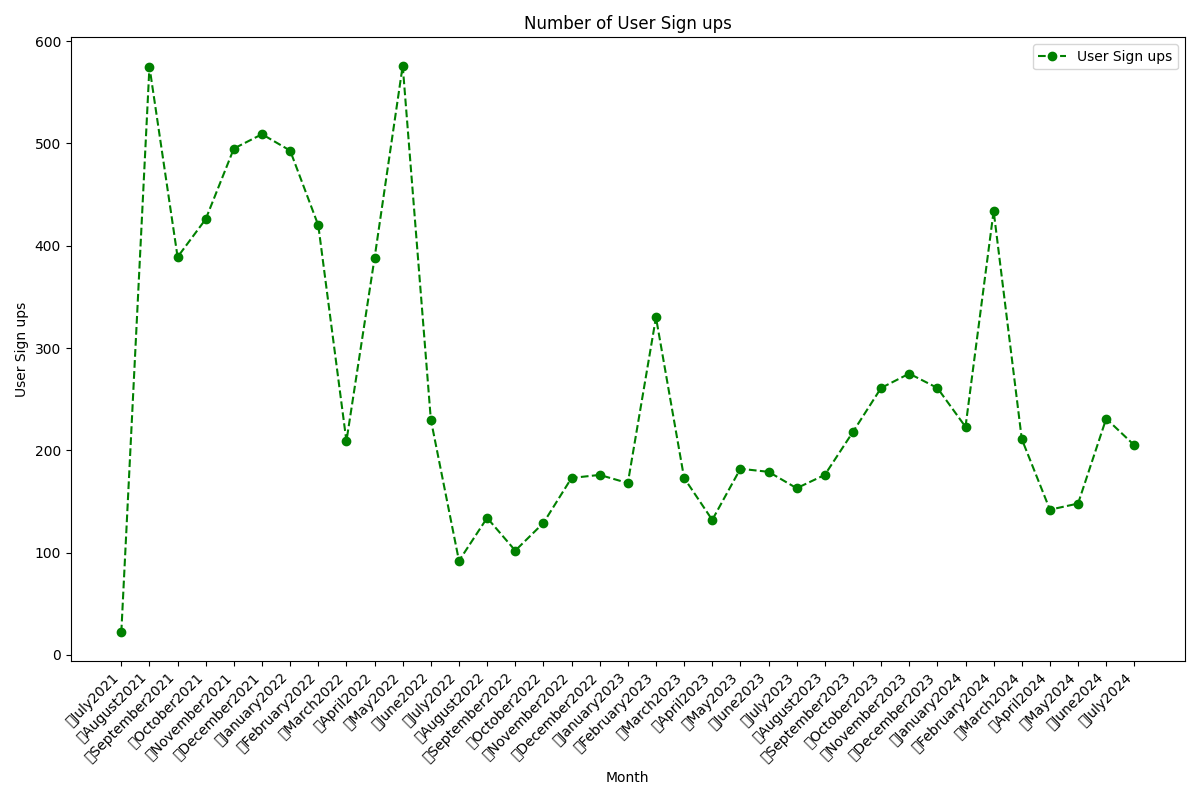
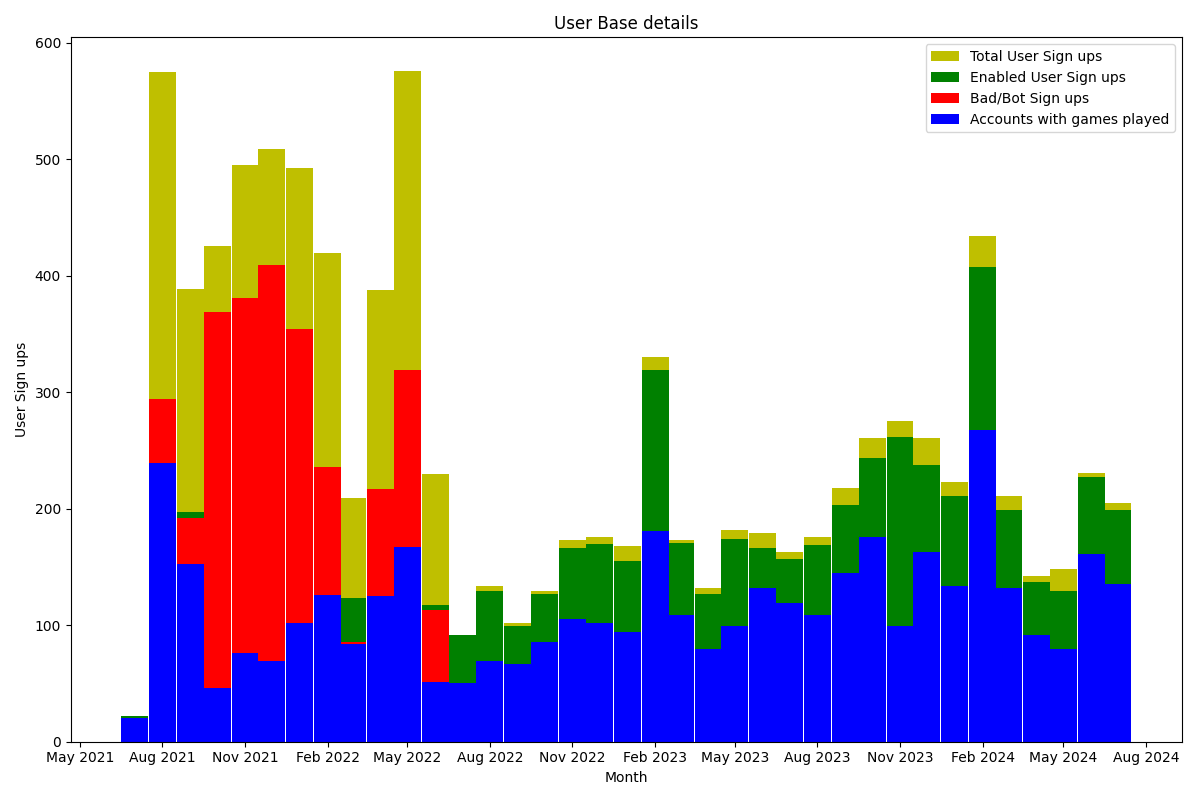
Process all sets of data as a bar chart

diff --git a/signupcvs.py b/signupcvs.py
@@ -1,31 +1,76 @@
 import csv
 import matplotlib.pyplot as plt
+import matplotlib.dates as mdates
+from datetime import date
+import numpy as np
 
 x= []
-y =[]
+y1 =[]
+y2 = []
+y3 = []
+y4 = []
 
 with open('users.csv','r') as csvfile: 
     plots = csv.reader(csvfile, delimiter = ',') 
 
     header = next(plots)
     data = list(plots)
+    data.reverse()
+    count = 0
+    month_num = 0
 
     for row in data:
         month = row[1]
-        year = row[0]
-        date = month + str(year)
+        year = int(row[0])
 
-        x.append(date)
-        y.append(int(row[2]))
+        month = month.lstrip()
+
+        if month == "January":
+            month_num = 1
+        elif month == "February":
+            month_num = 2
+        elif month == "March":
+            month_num = 3
+        elif month == "April":
+            month_num = 4
+        elif month == "May":
+            month_num = 5
+        elif month == "June":
+            month_num = 6
+        elif month == "July":
+            month_num = 7
+        elif month == "August":
+            month_num = 8
+        elif month == "September":
+            month_num = 9
+        elif month == "October":
+            month_num = 10
+        elif month == "November":
+            month_num = 11
+        elif month == "December":
+            month_num = 12
+
+        date_time_value = mdates.date2num(date(year,month_num,1))
+        date_time_num = mdates.date2num(date_time_value)
+        formatter = mdates.ConciseDateFormatter(date_time_value)
+
+        x.append(date_time_value)
+        y1.append(int(row[2]))
+        y2.append(int(row[4]))
+        y3.append(int(row[3]))
+        y4.append(int(row[5]))
          
 plt.figure(figsize=(12, 8))   
-plt.plot(x, y, color = 'g',linestyle = 'dashed', 
-         marker = 'o', label = "User Sign ups") 
+plt.bar(x, y1, color = 'y', width = 30, label = "Total User Sign ups")
+plt.bar(x, y2, color = 'g', width = 30, label = "Enabled User Sign ups")
+plt.bar(x, y3, color = 'r', width = 30, label = "Bad/Bot Sign ups") 
+plt.bar(x, y4, color = 'b', width = 30, label = "Accounts with games played")    
+plt.gca().xaxis.set_major_formatter(mdates.DateFormatter('%b %Y'))
+plt.gca().xaxis.set_major_locator(mdates.MonthLocator(interval = 3)) 
 plt.xlabel('Month') 
 plt.ylabel('User Sign ups') 
-plt.title('Number of User Sign ups') 
+plt.title('User Base details') 
 plt.legend()
-plt.xticks(rotation=45, ha='right')
 plt.tight_layout()
 
 plt.savefig('sign_ups_per_month.png', format='png')
